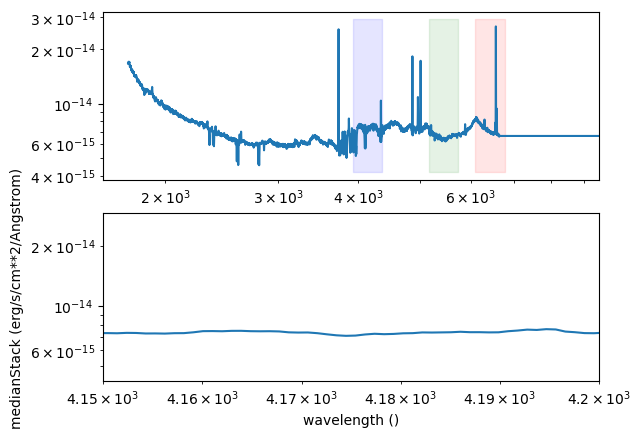
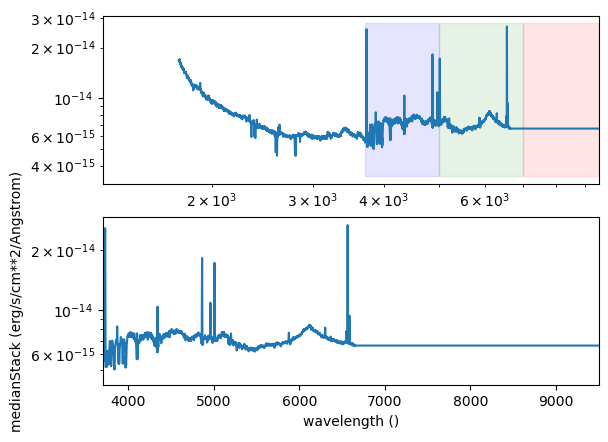
README is now written

diff --git a/python/lineListVac.py b/python/lineListVac.py
@@ -1,0 +1,125 @@
+import numpy as n
+from scipy.interpolate import interp1d
+import pyneb as pn
+
+# Conversion from Morton (1991, ApJS, 77, 119) wavelength in Angstrom
+# SDSS spectra are in the vacuum, therefore the ref wavelengths of the lines must be in the vacuum.
+AIR = lambda VAC : VAC / (1.0 + 2.735182e-4 + 131.4182 / VAC**2 + 2.76249e8 / VAC**4)
+vacs=n.arange(1000,12000,0.01)
+airs=AIR(vacs)
+VAC = interp1d(airs,vacs)
+
+# Wavelengths from pyNeb Atoms are in A in vacuum like the SDSS spectra. No need to convert.
+
+C3 = pn.Atom('C', 3)
+#C3.printIonic()
+C3_1908=1/(C3.getEnergy(C3.getTransition(1908)[0])-C3.getEnergy(C3.getTransition(1908)[1]))
+
+C4 = pn.Atom('C', 4)
+#C4.printIonic()
+C4_1548=1/(C4.getEnergy(C4.getTransition(1548)[0])-C4.getEnergy(C4.getTransition(1548)[1]))
+
+O2 = pn.Atom('O', 2)
+#O2.printIonic()
+O2_3727=1/(O2.getEnergy(O2.getTransition(3727)[0])-O2.getEnergy(O2.getTransition(3727)[1]))
+O2_3729=1/(O2.getEnergy(O2.getTransition(3729)[0])-O2.getEnergy(O2.getTransition(3729)[1]))
+#O2=AIR((O2_3727+O2_3729)/2.)
+O2_mean=(O2_3727*3.326568+O2_3729*3.324086)/(3.326568 + 3.324086)
+
+Ne3 = pn.Atom('Ne',3)
+#Ne3.printIonic()
+Ne3_3869=1/(Ne3.getEnergy(Ne3.getTransition(3869)[0])-Ne3.getEnergy(Ne3.getTransition(3869)[1]))
+Ne3_3968=1/(Ne3.getEnergy(Ne3.getTransition(3968)[0])-Ne3.getEnergy(Ne3.getTransition(3968)[1]))
+
+O3 = pn.Atom('O', 3)
+#O3.printIonic()
+O3_4363=1/(O3.getEnergy(O3.getTransition(4363)[0])-O3.getEnergy(O3.getTransition(4363)[1]))
+O3_4960=1/(O3.getEnergy(O3.getTransition(4960)[0])-O3.getEnergy(O3.getTransition(4960)[1]))
+#O3_5007=AIR(1/(O3.getEnergy(O3.getTransition(5007)[0])-O3.getEnergy(O3.getTransition(5007)[1])))
+O3_5007=1/(O3.getEnergy(O3.getTransition(5007)[0])-O3.getEnergy(O3.getTransition(5007)[1]))
+
+O1 = pn.Atom('O', 1)
+O1_5578=1/(O1.getEnergy(O1.getTransition(5578)[0])-O1.getEnergy(O1.getTransition(5578)[1]))
+O1_6302=1/(O1.getEnergy(O1.getTransition(6302)[0])-O1.getEnergy(O1.getTransition(6302)[1]))
+O1_6365=1/(O1.getEnergy(O1.getTransition(6365)[0])-O1.getEnergy(O1.getTransition(6365)[1]))
+
+N2 = pn.Atom('N', 2)
+#N2.printIonic()
+N2_5756=1/(N2.getEnergy(N2.getTransition(5756)[0])-N2.getEnergy(N2.getTransition(5756)[1]))
+N2_6549=1/(N2.getEnergy(N2.getTransition(6549)[0])-N2.getEnergy(N2.getTransition(6549)[1]))
+N2_6585=1/(N2.getEnergy(N2.getTransition(6585)[0])-N2.getEnergy(N2.getTransition(6585)[1]))
+
+S2 = pn.Atom('S', 2)
+#S2.printIonic()
+S2_6718=1/(S2.getEnergy(S2.getTransition(6718)[0])-S2.getEnergy(S2.getTransition(6718)[1]))
+S2_6732=1/(S2.getEnergy(S2.getTransition(6732)[0])-S2.getEnergy(S2.getTransition(6732)[1]))
+
+Ar3 = pn.Atom('Ar', 3)
+#Ar3.printIonic()
+Ar3_7137=1/(Ar3.getEnergy(Ar3.getTransition(7137)[0])-Ar3.getEnergy(Ar3.getTransition(7137)[1]))
+
+# Wavelengths from pyNeb RecAtoms are in A in Air like the SDSS spectra. Conversion needed.
+
+H1=pn.RecAtom('H',1) # Hydrogen Balmer series
+H1_3970=VAC(H1.getWave(7,2))
+H1_4102=VAC(H1.getWave(6,2))
+H1_4341=VAC(H1.getWave(5,2))
+H1_4862=VAC(H1.getWave(4,2))
+#H1.getWave(4,2) #VAC(H1.getWave(4,2))
+H1_6564=VAC(H1.getWave(3,2))
+
+H1=pn.RecAtom('H',1) # Hydrogen Lyman series
+H1_1216=VAC(H1.getWave(2,1))
+
+He1=pn.RecAtom('He',1) # Helium
+
+He2=pn.RecAtom('He',2) # Helium
+He2_4686=VAC(He2.getWave(4,3))
+He2_5411=VAC(He2.getWave(7,4))
+
+# Limits for the 4000 A fit
+dl4k=150
+#intLim4k=n.array([3950-dl4k, 3950, 4050, 4050+dl4k])
+intLim4k=n.array([3600-dl4k, 3600, 4140, 4140+dl4k])
+
+# limits for th eUV luminosities fits
+intLimUV=n.array([2000,2200,3000,3200,3400,3600,4100,4300,4500,4700])
+
+# system at 2360
+# cmin1,cmax1=2080.,2240.
+em1=2326.7
+abs1=2343.7
+em2=2365.3
+
+aTR=2370.
+
+abs2=2374.3
+abs3=2382.2
+em3=2396.2
+# cmin2,cmax2=2400.,2550.
+
+a0s2360=n.array([em1,abs1,em2,abs2,abs3,em3])
+
+# system at 2600
+em1=2586.1
+em2=2599.6
+
+aTR=2606.
+
+abs1=2612.5
+abs2=2626.3
+#cmin1,cmax1=2400.,2550.
+#cmin2,cmax2=2650.,2770.
+a0s2600=n.array([em1,em2,abs1,abs2])
+
+
+# system at 2800
+Mga=2795.
+Mgb=2802.
+aTR=2798.
+#cmin1,cmax1=2650.,2770.
+#cmin2,cmax2=2807., 2840.
+a0s2800=n.array([Mga,Mgb])
+ 
+# abs2852=3851.9
+# cmin2,cmax2=2870.,3000.

diff --git a/README.md b/README.md
@@ -1,1 +1,53 @@
 # qmost_templates
+
+Imports and dependencies
+```
+pip install numpy, astropy, matplotlib, speclite, spectres, scipy, pyneb
+```
+
+Clone the repository
+```
+cd ~/software/linux
+git clone git@github.com:JohanComparat/qmost_templates.git
+```
+
+Go to the directory 
+```
+cd ~/software/linux/qmost_templates/python
+```
+
+Step 1
+
+Create the list of spectra to be stacked together
+```
+python create_stack_list_4MOST.py
+```
+
+Stack the spectra (long step). It uses the library SpectraStackingEBOSS.py and SDSS spectra from the DR16 https://dr16.sdss.org/
+You might need to add this python directory to your python path to be able to use the library.
+```
+python stack_spectra_4MOST.py
+```
+
+As a function of redshift, stitch together the spectra. 
+For each stitched stack, it is needed to input by hand the starting and ending wavelength used in each individual stack.
+Then a routine makes a figure of the stack obtained (it uses lineListVac.py).
+```
+python stack_spectra_4MOST_stitch_full_wavelength.py
+python plot_qmost_stack.py
+```
+
+Finally convert to a 4MOST template following these specifications https://4most.mpe.mpg.de/static/manual/spectral_template_format_specification.htm
+
+```
+python convert_stack_2_qmost_template.py
+```
+
+Then copy the results to this repository (intermediate files are large)
+```
+cd ~/software/linux/qmost_templates
+rsync -avz /data43s/SDSS/stacks/X_AGN/*stitched* data/
+```
+
+and commit to the github.
+
